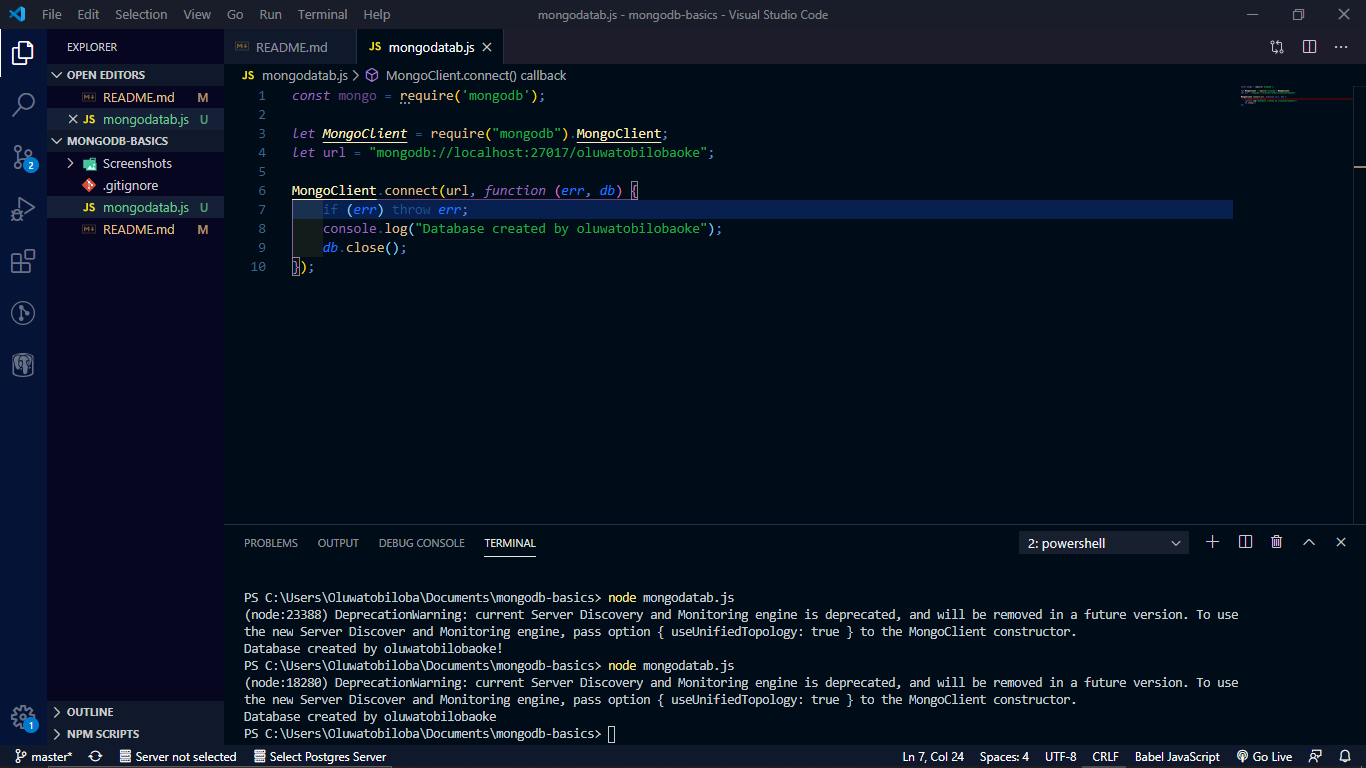
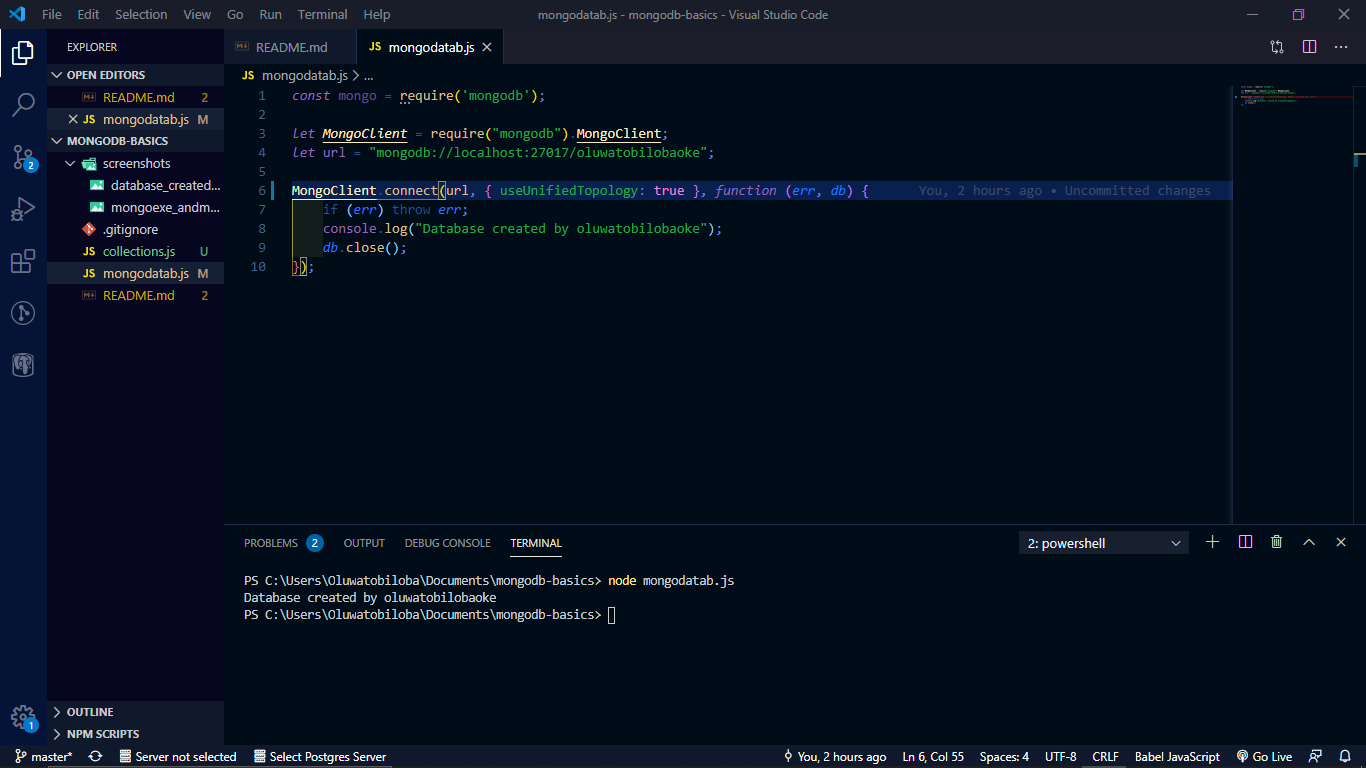
Update

diff --git a/mongodatab.js b/mongodatab.js
@@ -3,7 +3,7 @@ const mongo = require('mongodb');
 let MongoClient = require("mongodb").MongoClient;
 let url = "mongodb://localhost:27017/oluwatobilobaoke";
 
-MongoClient.connect(url, function (err, db) {
+MongoClient.connect(url, { useUnifiedTopology: true }, function (err, db) {
     if (err) throw err;
     console.log("Database created by oluwatobilobaoke");
     db.close();
